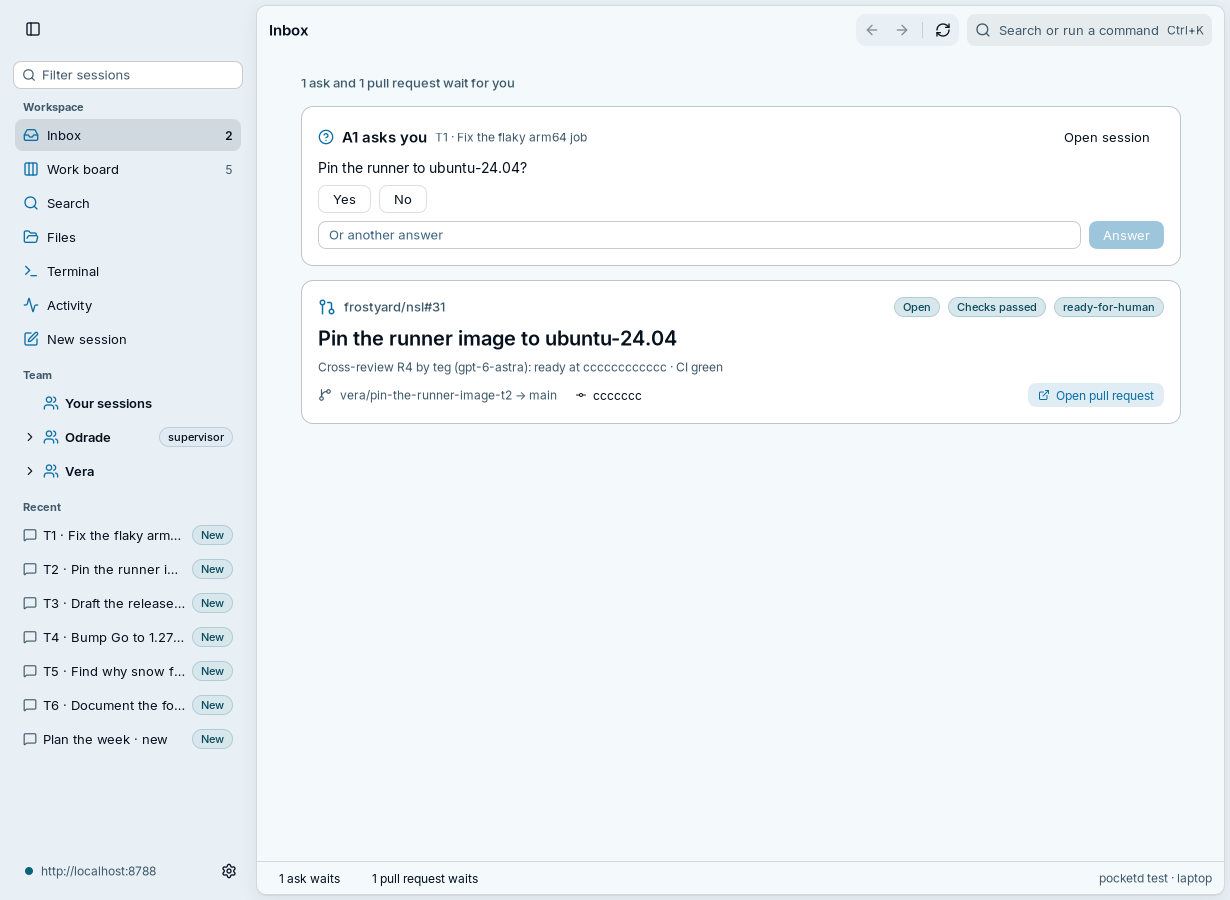
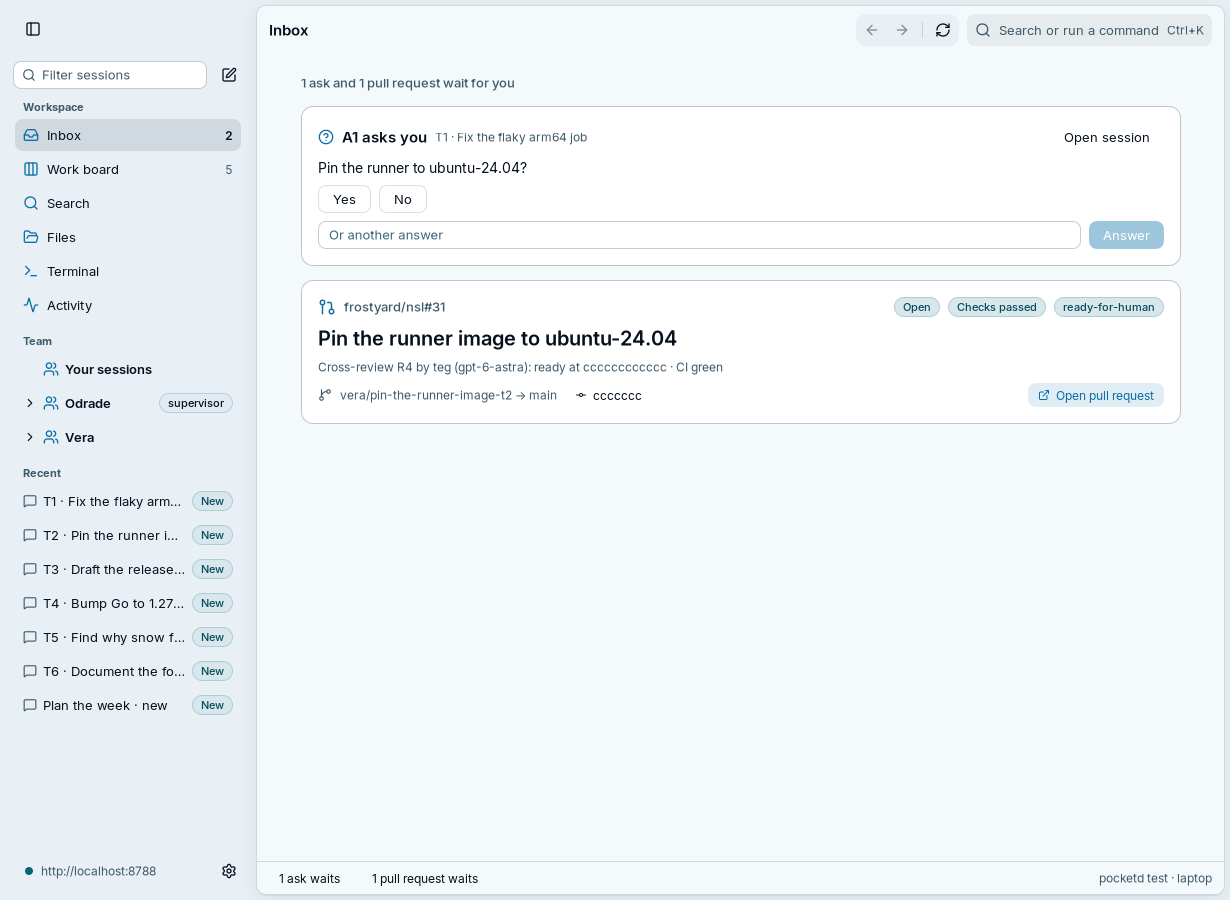
docs(nsgo): record the owner's 6 design choices, with the pictures
The plan's open questions about the board, New session, rename and pin, a
report, the palette and plans are answered (2026-11-25). The kept pictures
change where the sidebar shows: New session left its places for a button.

diff --git a/docs/plans/nsgo-only-client.md b/docs/plans/nsgo-only-client.md
@@ -11,9 +11,9 @@ Built and merged on 2026-11-24 and 2026-11-25, each with its tests in `desktop/i
 | 1, 2. Failures and loading | #178, #180: the Inbox, the board, the sidebar, a transcript, a run, a search, the Terminal place, the sign-ins (#184), New session's profiles and models (#181) | |
 | 3. Lessons in force | #181 | |
 | 4. What waits and runs | #181: a status bar under the content | the usage tooltips' text has no test |
-| 5. New session | #181 | |
+| 5. New session | #181; a dialog, as the owner chose (PR-A) | |
 | 6, 7. The board, proposals, schedules | #185 | a plan's consults; "Dropping #N…" has no test; the kit's shell cannot open the session's details from the changes' count |
-| 8. The sidebar | #181: the counts, the search offer, a group's role and problem, the New mark | a session's tag and its dimming; a row's menu with Pinned and Rename |
+| 8. The sidebar | #181: the counts, the search offer, a group's role and problem, the New mark; a row's menu with Pinned and Rename… (PR-A) | a session's tag and its dimming |
 | 9. A session | #186 | a failed copy's note (NSGo reports none); the unfolded service messages kept |
 | 10. The Terminal place | #186 | a refused `file:` link's toast (NSGo treats it as no link); the terminal's zoom zooming the window |
 | 11. Approve and merge | | all of it: its files are the client's auth files |
@@ -21,14 +21,14 @@ Built and merged on 2026-11-24 and 2026-11-25, each with its tests in `desktop/i
 | 13. Search | #180, #184 | the opened entry's highlight |
 | 14. Zoom that fits | #182 | |
 | 15. A notification clicked at start | #182 | it runs headless only: a press did not reach the client in the real window |
-| 16. Commands | #182 | Insert Prompt as a command; Show or Hide the Sessions |
+| 16. Commands | #182; Rename session, with F2 (PR-A) | Insert Prompt as a command; Show or Hide the Sessions |
 | 17. The Activity place | #184 | |
 | The terminal's clipboard | #177: 3 tests | |
 | The preferences' move | #182 | not run on a real `settings.json` with a real keyring |
 | A phone's and a tablet's rules | #187, #190: the bar of tabs, a session over its tab, More, the board's order, no Terminal and no Quit on iOS, the held GitHub refresh, tested headless with a phone's and a tablet's environment | the touch size; a tab chosen in the simulator (Phase 6's first runs); everything on a real device |
 | What a removal must change first | #183: the state tests' loop | the Makefile, CI, the lint rules and 2 script tests still name MyGo |
 
-**The owner's open questions were not answered, and the NSGo client's own layout was kept** in each of them: the board's lanes by state, New session as a page, rename and pin in the session's inspector, the report as a collapsible, the palette's sessions, the plans' own section. The missing information was added inside that layout.
+**The owner answered the 6 design questions on 2026-11-25,** each from the 2 clients' pictures side by side (the table of choices under [What the NSGo client lacks](#what-the-nsgo-client-lacks)). Until then the NSGo client's own layout was kept in each. New session as a dialog, and pin and rename on the row and the title, are built (PR-A). The board's groups, the report on its card and a plan on its thread's card are a change of their own (PR-B). The palette stays as it is.
 
 **A correction.** #177, #178, #179, #180, #181, #182 and #184 each said in its body that no path of `.github/risk-paths.json` was touched. That was false: `desktop/internal/nsgoclient/*.go` is on the list at L2, `**/go.mod` at L2 (#179), and #182 changed `accounts.go` and `accounts_native.go`, which are on it at L1. Each body now carries the correction. #180 to #190 were merged by admin merge on the owner's authorization of 2026-11-24 for that night; #182's change of the 2 auth files is the one to read again: a notification clicked at start opens after the same sign-in, and a first start reads the MyGo client's `settings.json` and so signs in to the service it names with the keyring's token and no form. #187 changed `accounts_native.go` by 1 line, which its body names: the GitHub sign-in's refresh is held while iOS has the app in the background.
 
@@ -58,12 +58,20 @@ Read from `desktop/internal/app` (the MyGo client: 8,540 lines in 26 files, and 
 16. **Commands:** Insert Prompt, Show or Hide the Sessions, Sign Out, Sign In to and Sign Out of GitHub, and Quit have no command; Search Sessions has no key (Ctrl+Shift+F), nor the palette's second key (Ctrl+Shift+P), nor Activity's (Ctrl+J). Stop run is listed only while a run works, where MyGo lists it dimmed with its reason. About shows no version.
 17. **The Activity console:** levels, the source, the time and Copy. The NSGo client joins the lines on a page.
 
-**Different by design, for the owner to sort** ([Open questions](#open-questions)). The NSGo client does these another way, and nothing says which is wanted:
+**Different by design: the owner's choices.** The NSGo client did these another way than the MyGo client. The owner chose for each on 2026-11-25:
 
-- **The board's lanes.** MyGo groups threads by who moves them next (`Data.Board`: "Waits for you", "With the specialists", "With the supervisors", "Closed"). NSGo draws lanes by the thread's state (Starting, In progress, Blocked, Done) with a badge for who moves.
-- **New session** is a dialog in MyGo and a page in NSGo. **Rename and pin** are on the row and the title in MyGo, and in the session's inspector in NSGo. **A report** folds at 4 lines in MyGo and is a collapsible of rendered Markdown in NSGo.
-- **The palette** lists commands in MyGo, and commands and every session in NSGo. NSGo has an Open terminal command.
-- **Plans** are on their threads' cards in MyGo and a section of their own in NSGo.
+| The difference | The owner's choice | Built |
+| --- | --- | --- |
+| **The board.** MyGo groups threads by who moves them next (`Data.Board`: "Waits for you", "With the specialists", "With the supervisors", "Closed"). NSGo drew lanes by the thread's state (Starting, In progress, Blocked, Done) with a badge for who moves. | By who moves next, as MyGo. | PR-B |
+| **New session.** A dialog in MyGo, a page among the sidebar's places in NSGo. | A dialog, over the place the owner was in, opened by a button at the top of the sidebar, the palette and Ctrl+N; a sheet on a touch screen. | PR-A |
+| **Rename and pin.** On the row and the title in MyGo (a right-click menu, F2, a pencil, a double click); in the session's details in NSGo. | On the row and the title, as MyGo; the details keep theirs. | PR-A, with 1 difference, below |
+| **A report.** MyGo shows it on the thread's card, plain, cut at 4 lines with "Show the Whole Report". NSGo kept it behind Details and a closed fold, as rendered Markdown. | On the card, its first 4 lines, then "Show the Whole Report", as rendered Markdown. | PR-B |
+| **The palette.** Commands in MyGo; commands, then every session, in NSGo, with an Open terminal command. | Commands and sessions, as NSGo. | nothing to build |
+| **Plans.** On their threads' cards in MyGo; a section of their own in NSGo, with the plan's text and each task's acceptance lines. | On the plan's own thread's card, with the plan's text and the acceptance lines behind a "Show the Plan" fold; no section. | PR-B |
+
+**The 1 difference in rename.** In MyGo, Rename… of a row's menu turns the title into a field in the row. In the NSGo client the field is in place of the session's title over the transcript, for every way to start a rename. NSGo's sidebar (`ui.Sidebar`, v0.3.0) builds its rows anew at every change of them, so a field in a row would lose the keyboard, and end the edit, at pocketd's next event. A field in the row waits on a sidebar that keeps its rows.
+
+**A row's menu is see-through on Linux.** NSGo's menu takes no style from the app, and its ground is the page's color at 92% over a blur; Linux draws no blur, so the rows under the menu show through it (frostui's `workspaceui.DialogPanel` says the same of every menu). The kit or NSGo fixes that, not this client.
 
 **Preferences are in 2 places, with no move.** MyGo keeps `settings.json` in the config folder (`desktop/internal/config`); NSGo keeps keys in its own storage (`storage.json` under `$XDG_DATA_HOME/org.frostyard.PocketGo`, `localStorage` in a browser). The device token and the GitHub sign-in are shared on a desktop: both clients use the same keyring entries. Nothing else is. By the code, a person who goes from the MyGo client to the NSGo one meets the sign-in form with an empty address, and the pins, the seen marks, the notification switches and the zoom start afresh; this was not run.
 
@@ -128,8 +136,6 @@ Read from `desktop/internal/app` (the MyGo client: 8,540 lines in 26 files, and 
 
 ## Open questions
 
-- **The board's lanes:** by who moves next, as MyGo, or by the thread's state, as NSGo? The owner, by Phase 4.
-- **New session, rename and pin, a report's fold, the palette's sessions, the plans' place:** MyGo's way or NSGo's, for each? The owner, by Phase 4.
 - **Which of the 17 items are not wanted?** The owner strikes them; an item not struck is built.
 - **NSGo's iOS and macOS targets:** whether they build and run PocketGo is not known. Phase 6's first change finds out, on the owner's Mac.
 
